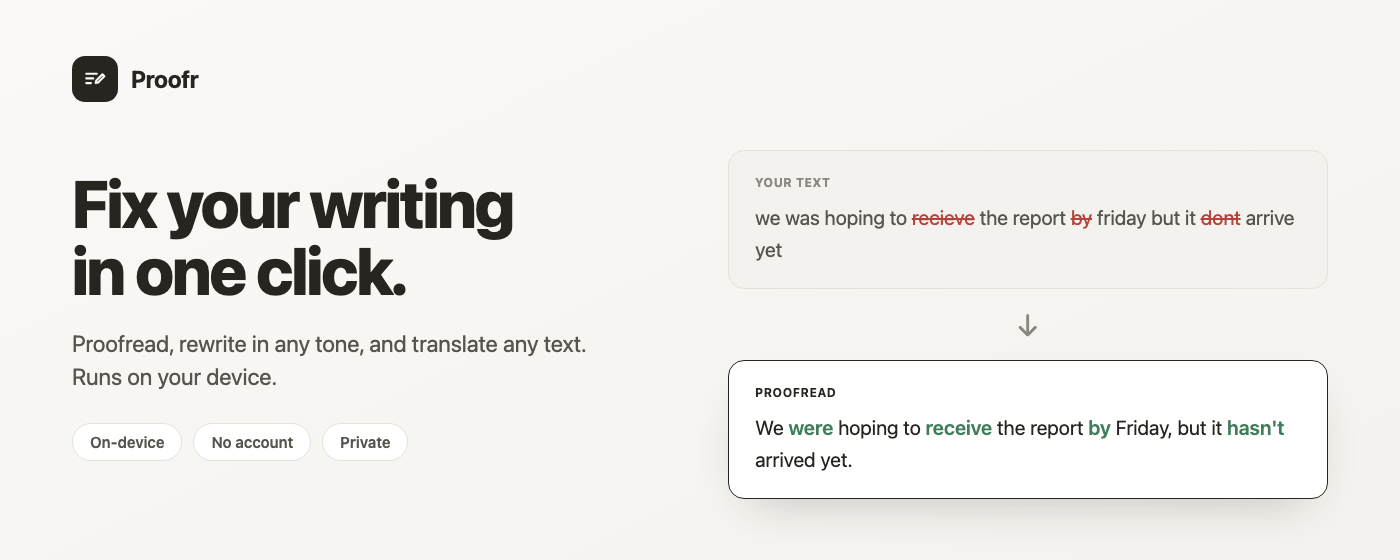
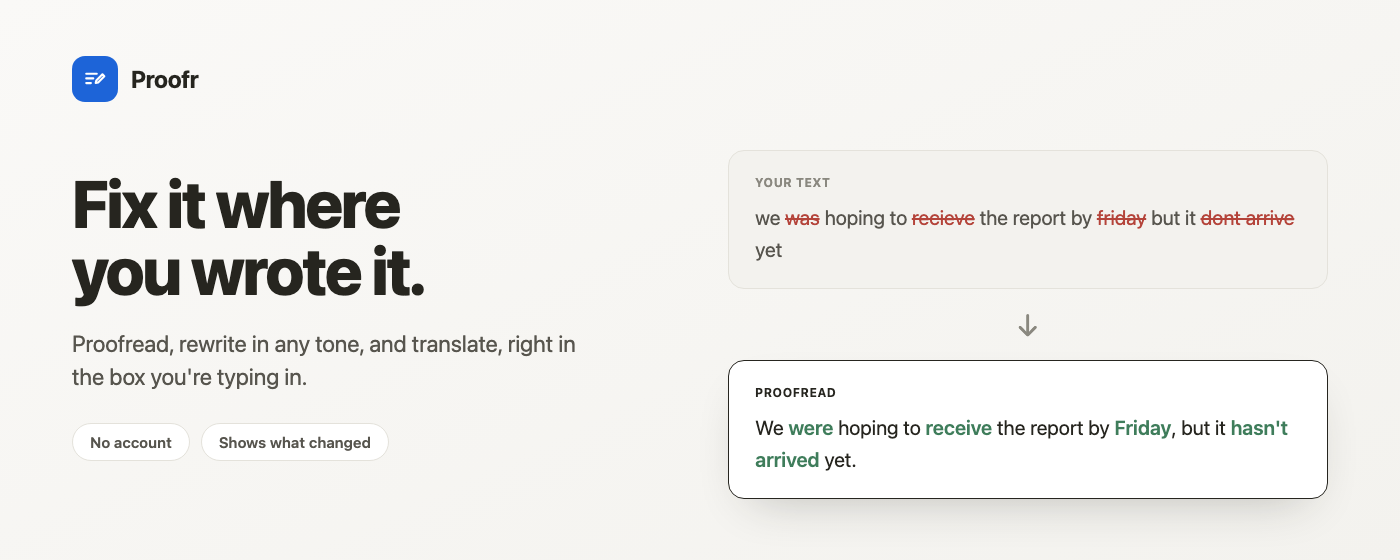
Store assets in the Ocean blue brand
Screenshots, promo tile and marquee re-rendered from the current UI: blue
logo tile and primary actions, green only on inserted words, captures
pinned to light mode (this Mac is in dark mode). Headlines no longer claim
"one click" (it's select + shortcut); marquee/tile copy drops the
on-device claim that doesn't hold without Gemini Nano.

Claude-Session: https://claude.ai/code/session_01Tit3JDZB1AWTHvfARrHdfL

diff --git a/store/marquee.html b/store/marquee.html
@@ -5,7 +5,7 @@
 <style>
   :root{
     --ink:#26251f; --muted:#57554e; --faint:#8a887f; --line:#e4e2db;
-    --paper:#faf9f7; --canvas:#f3f2ee; --white:#fff; --ok:#3f7d5b; --err:#b4443a;
+    --paper:#faf9f7; --canvas:#f3f2ee; --white:#fff; --accent:#1D64D8; --ok:#3f7d5b; --err:#b4443a;
   }
   *{box-sizing:border-box;margin:0;padding:0}
   html,body{margin:0;padding:0}
@@ -16,7 +16,7 @@
     color:var(--ink);
   }
   .brand{display:flex;align-items:center;gap:13px;position:absolute;top:56px;left:72px}
-  .logo{width:46px;height:46px;border-radius:13px;background:var(--ink);color:var(--paper);display:flex;align-items:center;justify-content:center}
+  .logo{width:46px;height:46px;border-radius:13px;background:var(--accent);color:#fff;display:flex;align-items:center;justify-content:center}
   .logo svg{width:28px;height:28px}
   .brandname{font-size:24px;font-weight:700;letter-spacing:-.4px}
   .left{position:absolute;left:72px;top:170px;max-width:600px}
@@ -43,23 +43,22 @@
     <span class="brandname">Proofr</span>
   </div>
   <div class="left">
-    <div class="headline">Fix your writing<br>in one click.</div>
-    <div class="sub">Proofread, rewrite in any tone, and translate any text. Runs on your device.</div>
+    <div class="headline">Fix it where<br>you wrote it.</div>
+    <div class="sub">Proofread, rewrite in any tone, and translate, right in the box you're typing in.</div>
     <div class="pills">
-      <span class="pill">On-device</span>
       <span class="pill">No account</span>
-      <span class="pill">Private</span>
+      <span class="pill">Shows what changed</span>
     </div>
   </div>
   <div class="stage">
     <div class="doc before">
       <div class="tag">Your text</div>
-      we was hoping to <s>recieve</s> the report <s>by</s> friday but it <s>dont</s> arrive yet
+      we <s>was</s> hoping to <s>recieve</s> the report by <s>friday</s> but it <s>dont arrive</s> yet
     </div>
     <div class="arrow">↓</div>
     <div class="doc after">
       <div class="tag">Proofread</div>
-      We <ins>were</ins> hoping to <ins>receive</ins> the report <ins>by</ins> Friday, but it <ins>hasn't</ins> arrived yet.
+      We <ins>were</ins> hoping to <ins>receive</ins> the report by <ins>Friday</ins>, but it <ins>hasn't arrived</ins> yet.
     </div>
   </div>
 </div>

diff --git a/store/promo-tile.html b/store/promo-tile.html
@@ -5,7 +5,7 @@
 <style>
   :root{
     --ink:#26251f; --muted:#57554e; --faint:#8a887f; --line:#e4e2db;
-    --paper:#faf9f7; --canvas:#f3f2ee; --white:#fff; --ok:#3f7d5b; --err:#b4443a;
+    --paper:#faf9f7; --canvas:#f3f2ee; --white:#fff; --accent:#1D64D8; --ok:#3f7d5b; --err:#b4443a;
   }
   *{box-sizing:border-box;margin:0;padding:0}
   html,body{margin:0;padding:0}
@@ -16,7 +16,7 @@
     color:var(--ink);padding:26px 28px;display:flex;flex-direction:column;
   }
   .brand{display:flex;align-items:center;gap:9px}
-  .logo{width:30px;height:30px;border-radius:9px;background:var(--ink);color:var(--paper);display:flex;align-items:center;justify-content:center}
+  .logo{width:30px;height:30px;border-radius:9px;background:var(--accent);color:#fff;display:flex;align-items:center;justify-content:center}
   .logo svg{width:19px;height:19px}
   .brandname{font-size:17px;font-weight:700;letter-spacing:-.3px}
   .headline{font-size:31px;font-weight:800;letter-spacing:-1.1px;line-height:1.06;margin-top:18px}
@@ -37,11 +37,11 @@
     <span class="logo" id="logo"></span>
     <span class="brandname">Proofr</span>
   </div>
-  <div class="headline">Fix your writing<br>in one click.</div>
-  <div class="tagline">Proofread · Rewrite · Translate — on your device</div>
+  <div class="headline">Fix it where<br>you wrote it.</div>
+  <div class="tagline">Proofread · Rewrite · Translate</div>
   <div class="demo">
     <div class="tag">Proofread</div>
-    We <ins>were</ins> hoping to <ins>receive</ins> the report <ins>by</ins> Friday.
+    We <ins>were</ins> hoping to <ins>receive</ins> the report by Friday.
   </div>
 </div>
 <script>

diff --git a/store/screenshots.html b/store/screenshots.html
@@ -6,7 +6,7 @@
 <style>
   :root{
     --ink:#26251f; --muted:#57554e; --faint:#8a887f; --line:#e4e2db;
-    --paper:#faf9f7; --canvas:#f3f2ee; --white:#fff;
+    --paper:#faf9f7; --canvas:#f3f2ee; --white:#fff; --accent:#1D64D8;
     --ok:#3f7d5b; --err:#b4443a;
   }
   *{box-sizing:border-box;margin:0;padding:0}
@@ -17,7 +17,7 @@
   /* Each frame is exactly a Chrome Web Store screenshot size */
   .frame{width:1280px;height:800px;background:var(--paper);position:relative;overflow:hidden;display:flex;flex-direction:column}
   .brand{display:flex;align-items:center;gap:12px;position:absolute;top:44px;left:56px}
-  .logo{width:40px;height:40px;border-radius:11px;background:var(--ink);color:var(--paper);display:flex;align-items:center;justify-content:center}
+  .logo{width:40px;height:40px;border-radius:11px;background:var(--accent);color:#fff;display:flex;align-items:center;justify-content:center}
   .logo svg{width:24px;height:24px}
   .brandname{font-size:20px;font-weight:700;letter-spacing:-.4px}
   .pillrow{display:flex;gap:10px;margin-top:22px}
